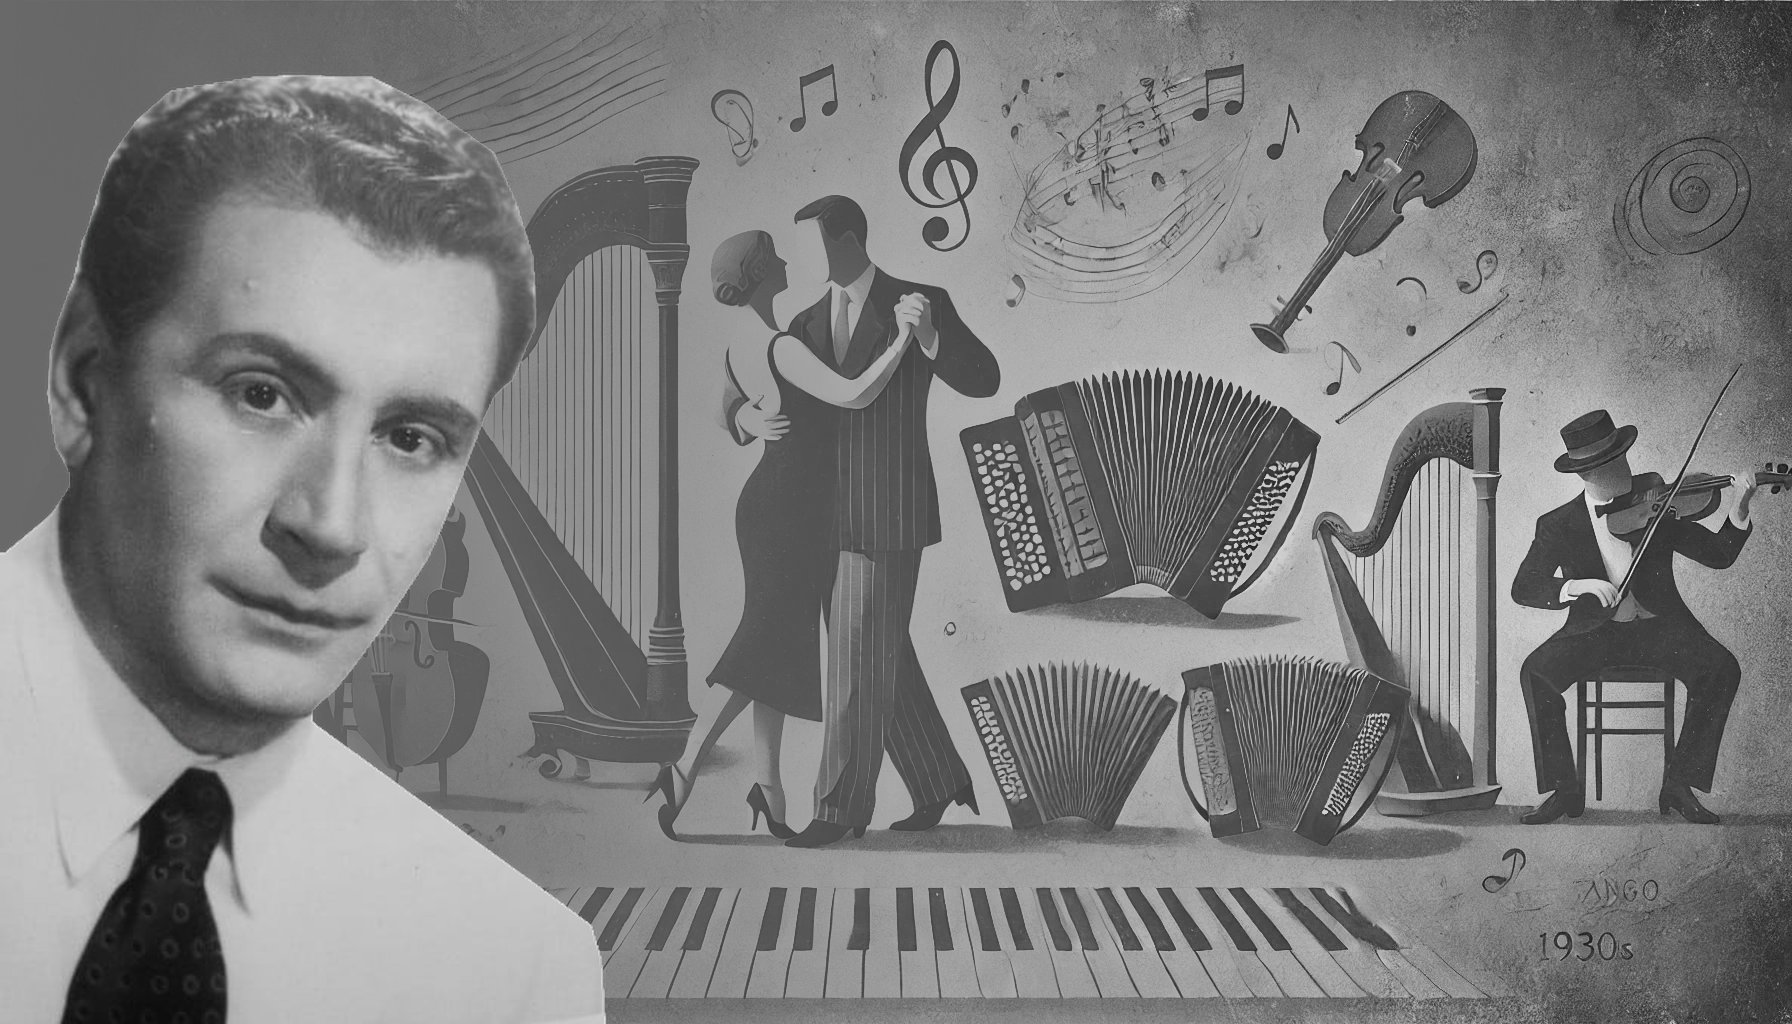
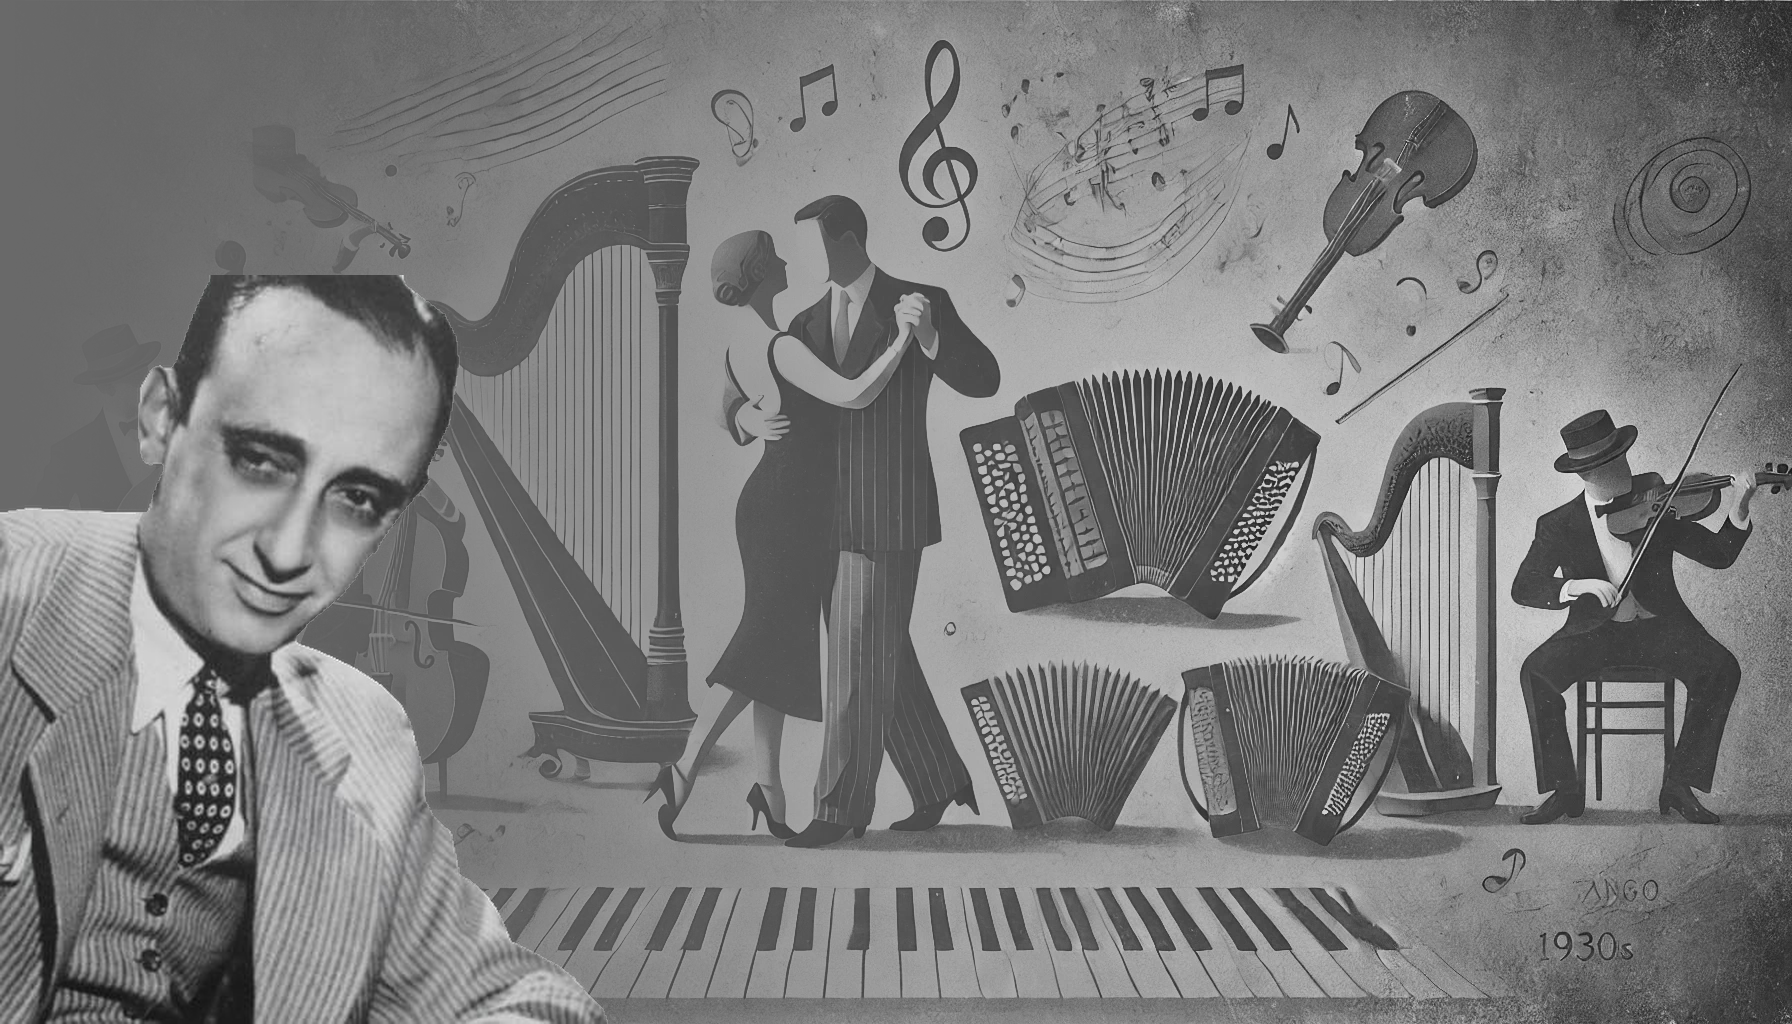
novedades

Changed region(s): [[0.0, 0.0625, 0.3438, 1.0]]

diff --git a/tangotags.py b/tangotags.py
@@ -59,7 +59,8 @@ output_folder = os.path.join(project_root, "output")
 
 image_folder = os.path.join(project_root, "images")
 background_image_path = os.path.join(image_folder, "background_tango.png")
-orchestra_path = os.path.join(image_folder, "alfredo de angelis.png")
+
+background_image_path = join(image_folder, "background_tango.png")
 
 
 
@@ -376,8 +377,6 @@ class PresentationApp:
 
 
         self.merged_image_folder = image_folder
-        self.background_image_path = join(image_folder, "background_tango.png")
-        self.orchestra_path = join(image_folder, "alfredo de angelis.png")
         self.m3u_file_path = None
         self.audio_files = []
         # self.audio_tags = []
@@ -502,7 +501,6 @@ class PresentationApp:
         #                          "tgdj", "data", "self_result.csv")
         # self.result = pd.read_csv(load_path)
 
-
     def canciones_tanda(self, tanda, tags):
         # Check if the result has at least 'tanda' rows
         if len(self.result) < tanda:
@@ -526,55 +524,6 @@ class PresentationApp:
             list_of_values.append(selected_values)
 
         return list_of_values
-
-    def apply_gradient_overlay(self):
-        # Open the original image
-        base = PilImage.open(self.background_image_path).convert("RGBA")
-
-        orchestra = PilImage.open(self.orchestra_path).convert("RGBA")
-
-        maximum_in_width = 0.35 * base.width
-        maximum_in_height = base.height
-
-        resize_factor = maximum_in_height / orchestra.height
-
-        if (resize_factor * orchestra.width) > maximum_in_width:
-            resize_factor = maximum_in_width / orchestra.width
-
-        new_width = int(orchestra.width * resize_factor)
-        new_height = int(orchestra.height * resize_factor)
-
-        # Resize the orchestra image
-        orchestra = orchestra.resize((new_width, new_height), PilImage.Resampling.LANCZOS)
-
-        # Create a gradient overlay
-        gradient = PilImage.new('L', (base.width, base.height))
-        for x in range(base.width):
-            # Gradient from opaque dark gray (on the left) to fully transparent (on the right)
-            gradient_value = int(
-                255 * (1 - x / base.width))  # Fully opaque on the left to fully transparent on the right
-            for y in range(base.height):
-                gradient.putpixel((x, y), gradient_value)
-
-        # Convert gradient to RGBA
-        gradient_rgba = PilImage.new('RGBA', base.size)
-        for y in range(base.height):
-            for x in range(base.width):
-                gradient_rgba.putpixel((x, y), (
-                105, 105, 105, gradient.getpixel((x, y))))  # Dark gray with varying transparency
-
-        # Apply the gradient to the base image
-        combined = PilImage.alpha_composite(base, gradient_rgba)
-
-        # Paste the resized orchestra image onto the combined image
-        position = (0, combined.height - orchestra.height)  # Centering
-        combined.paste(orchestra, position, orchestra)  # The third argument is the mask to maintain transparency
-
-        # Save the gradient and the combined image
-        # gradient_rgba.save(self.path_gradiente, "PNG")
-        self.merged_image_path = join(image_folder, "merged_background.png")
-
-        combined.save(self.merged_image_path, "PNG")
 
     def open_m3u_file(self):
         # Temporarily make the window non-topmost to allow file dialog interaction
@@ -708,7 +657,7 @@ class PresentationApp:
         tk.Label(pref_window, text="Background Image:").grid(row=1, column=0, padx=10, pady=10, sticky="w")
         background_entry = tk.Entry(pref_window, width=70)
         background_entry.grid(row=1, column=1, padx=10, pady=10)
-        background_entry.insert(0, self.background_image_path)
+        background_entry.insert(0, background_image_path)
 
         tk.Label(pref_window, text="M3U Start Path:").grid(row=2, column=0, padx=10, pady=10, sticky="w")
         m3u_start_path_entry = tk.Entry(pref_window, width=70)
@@ -717,7 +666,7 @@ class PresentationApp:
 
         def save_preferences():
             output_folder = output_path_entry.get()
-            self.background_image_path = background_entry.get()
+            background_image_path = background_entry.get()
             m3u_start_path = m3u_start_path_entry.get()
             messagebox.showinfo("Preferences", "Preferences saved!")
             pref_window.destroy()
@@ -726,7 +675,7 @@ class PresentationApp:
         save_button.grid(row=3, column=0, columnspan=2, pady=20)
 
     def update_background_thumbnail(self):
-        image = PilImage.open(self.background_image_path)
+        image = PilImage.open(background_image_path)
         image.thumbnail((100, 100))
         self.thumbnail_image = ImageTk.PhotoImage(image)
 
@@ -739,14 +688,76 @@ class PresentationApp:
 
     def select_background_image(self):
         new_image_path = filedialog.askopenfilename(
-            initialdir=os.path.dirname(self.background_image_path),
+            initialdir=os.path.dirname(background_image_path),
             filetypes=[("Image files", "*.jpg;*.jpeg;*.png;*.webp;*.bmp"), ("All files", "*.*")]
         )
         if new_image_path:
-            self.background_image_path = new_image_path
+            background_image_path = new_image_path
             self.update_background_thumbnail()
 
+    def apply_gradient_overlay(self):
+        # Open the original image
+        base = PilImage.open(background_image_path).convert("RGBA")
+
+        orchestra = PilImage.open(self.orchestra_path).convert("RGBA")
+
+        maximum_in_width = 0.35 * base.width
+        maximum_in_height = base.height
+
+        resize_factor = maximum_in_height / orchestra.height
+
+        if (resize_factor * orchestra.width) > maximum_in_width:
+            resize_factor = maximum_in_width / orchestra.width
+
+        new_width = int(orchestra.width * resize_factor)
+        new_height = int(orchestra.height * resize_factor)
+
+        # Resize the orchestra image
+        orchestra = orchestra.resize((new_width, new_height), PilImage.Resampling.LANCZOS)
+
+        # Create a gradient overlay
+        gradient = PilImage.new('L', (base.width, base.height))
+        for x in range(base.width):
+            # Gradient from opaque dark gray (on the left) to fully transparent (on the right)
+            gradient_value = int(
+                255 * (1 - x / base.width))  # Fully opaque on the left to fully transparent on the right
+            for y in range(base.height):
+                gradient.putpixel((x, y), gradient_value)
+
+        # Convert gradient to RGBA
+        gradient_rgba = PilImage.new('RGBA', base.size)
+        for y in range(base.height):
+            for x in range(base.width):
+                gradient_rgba.putpixel((x, y), (
+                105, 105, 105, gradient.getpixel((x, y))))  # Dark gray with varying transparency
+
+        # Apply the gradient to the base image
+        combined = PilImage.alpha_composite(base, gradient_rgba)
+
+        # Paste the resized orchestra image onto the combined image
+        position = (0, combined.height - orchestra.height)  # Centering
+        combined.paste(orchestra, position, orchestra)  # The third argument is the mask to maintain transparency
+
+        # Save the gradient and the combined image
+        # gradient_rgba.save(self.path_gradiente, "PNG")
+        self.merged_image_path = join(image_folder, "merged_background.png")
+
+        combined.save(self.merged_image_path, "PNG")
+
     def create_slide_for_tanda(self, prs, tanda_number):
+
+        # NAME OF THE ORCHESTRA
+        orchestra_value = self.result.iloc[tanda_number - 1]['orchestra_value']
+        orchestra_value_min = unidecode(orchestra_value).lower()
+        self.tanda_gender = self.result.iloc[tanda_number - 1]['unique_value']
+        if 'tango' not in self.tanda_gender:
+            self.merged_image_path = join(self.merged_image_folder, "background_cortina.png")
+        else:
+            # Create a merged image with gradient overlay
+            self.path_gradiente = join(self.merged_image_folder, "gradiente_background.png")
+            self.orchestra_path = os.path.join(image_folder, f'{orchestra_value_min}.png')
+            self.apply_gradient_overlay()
+
 
         # Add a slide with a title and content layout
         slide_layout = prs.slide_layouts[5]  # Use a blank layout
@@ -755,32 +766,26 @@ class PresentationApp:
         # Set the merged background image with gradient
         slide.shapes.add_picture(self.merged_image_path, 0, 0, width=prs.slide_width, height=prs.slide_height)
 
-        title_box = slide.shapes.add_textbox(Inches(5.5), Inches(1), Inches(13), Inches(1.5))
-        title_frame = title_box.text_frame
+        if 'tango' not in self.tanda_gender:
 
-        # First paragraph, first run: "title" in bold
-        title_paragraph1 = title_frame.add_paragraph()
-        title_paragraph1.level = 0  # Indicate bullet level (0 is the first level)
-        run_orquesta = title_paragraph1.add_run()
-        orchestra_value = self.result.iloc[tanda_number - 1]['orchestra_value']
-        subtitle = ''
-        if not orchestra_value.startswith("Orquesta"):
-            initial_text = 'Orquesta de '
-        else:
-            initial_text =''
-        run_orquesta.text = f'{initial_text}{orchestra_value}'
-        run_orquesta.font.size = Pt(60)
-        run_orquesta.font.color.rgb = RGBColor(255, 255, 255)  # White color
-        run_orquesta.font.bold = True
+            lista = self.canciones_tanda(tanda_number, ['title', 'ano', 'composer'])
 
+            title, year, composer = self.canciones_tanda(tanda_number, ['title', 'ano', 'composer'])[0]
 
-        self.orchestra_path = join(image_folder, "alfredo de angelis.png")
+            title_box = slide.shapes.add_textbox(Inches(2), Inches(2), Inches(2), Inches(2))
+            title_frame = title_box.text_frame
 
-        counter = 0
-        for rows in self.canciones_tanda(tanda_number, ['title', 'ano', 'composer']):
-            title, year, composer = rows
+            # First paragraph, first run: "title" in bold
+            title_paragraph1 = title_frame.add_paragraph()
+            title_paragraph1.level = 0  # Indicate bullet level (0 is the first level)
+            run_orquesta = title_paragraph1.add_run()
 
-            text_box = slide.shapes.add_textbox(Inches(5.5), Inches(2 + counter * 1), Inches(13), Inches(1.5))
+            run_orquesta.text = f'{orchestra_value}'
+            run_orquesta.font.size = Pt(100)
+            run_orquesta.font.color.rgb = RGBColor(255, 255, 255)  # White color
+            run_orquesta.font.bold = True
+
+            text_box = slide.shapes.add_textbox(Inches(4), Inches(8), Inches(1), Inches(1))
             text_frame = text_box.text_frame
 
             # First paragraph, first run: "title" in bold
@@ -788,7 +793,7 @@ class PresentationApp:
             paragraph1.level = 0  # Indicate bullet level (0 is the first level)
             run_titulo = paragraph1.add_run()
             run_titulo.text = title
-            run_titulo.font.size = Pt(35)
+            run_titulo.font.size = Pt(50)
             run_titulo.font.color.rgb = RGBColor(255, 255, 255)  # White color
             run_titulo.font.bold = True
 
@@ -800,20 +805,69 @@ class PresentationApp:
             # First paragraph, second run: "year" in parentheses
             run_fecha = paragraph1.add_run()
             run_fecha.text = f'   ({year})'
-            run_fecha.font.size = Pt(30)
+            run_fecha.font.size = Pt(50)
             run_fecha.font.color.rgb = RGBColor(255, 255, 255)  # White color
 
-            # Second paragraph: "composer" in italics
-            paragraph2 = text_frame.add_paragraph()
-            run_compositor = paragraph2.add_run()
-            run_compositor.text = composer
-            run_compositor.font.size = Pt(18)
-            run_compositor.font.color.rgb = RGBColor(255, 255, 255)  # White color
-            run_compositor.font.italic = True
+        else:
 
-            counter += 1
+
+            title_box = slide.shapes.add_textbox(Inches(5.5), Inches(1), Inches(13), Inches(1.5))
+            title_frame = title_box.text_frame
+
+            # First paragraph, first run: "title" in bold
+            title_paragraph1 = title_frame.add_paragraph()
+            title_paragraph1.level = 0  # Indicate bullet level (0 is the first level)
+            run_orquesta = title_paragraph1.add_run()
+
+            subtitle = ''
+            if not orchestra_value.startswith("Orquesta"):
+                initial_text = 'Orquesta de '
+            else:
+                initial_text =''
+            run_orquesta.text = f'{initial_text}{orchestra_value}'
+            run_orquesta.font.size = Pt(60)
+            run_orquesta.font.color.rgb = RGBColor(255, 255, 255)  # White color
+            run_orquesta.font.bold = True
+
+            counter = 0
+            for rows in self.canciones_tanda(tanda_number, ['title', 'ano', 'composer']):
+                title, year, composer = rows
+
+                text_box = slide.shapes.add_textbox(Inches(5.5), Inches(2 + counter * 1), Inches(13), Inches(1.5))
+                text_frame = text_box.text_frame
+
+                # First paragraph, first run: "title" in bold
+                paragraph1 = text_frame.add_paragraph()
+                paragraph1.level = 0  # Indicate bullet level (0 is the first level)
+                run_titulo = paragraph1.add_run()
+                run_titulo.text = title
+                run_titulo.font.size = Pt(35)
+                run_titulo.font.color.rgb = RGBColor(255, 255, 255)  # White color
+                run_titulo.font.bold = True
+
+                # Add bullet
+                paragraph1.space_before = Pt(12)
+                paragraph1.space_after = Pt(12)
+                paragraph1.font.shadow = True
+
+                # First paragraph, second run: "year" in parentheses
+                run_fecha = paragraph1.add_run()
+                run_fecha.text = f'   ({year})'
+                run_fecha.font.size = Pt(30)
+                run_fecha.font.color.rgb = RGBColor(255, 255, 255)  # White color
+
+                # Second paragraph: "composer" in italics
+                paragraph2 = text_frame.add_paragraph()
+                run_compositor = paragraph2.add_run()
+                run_compositor.text = composer
+                run_compositor.font.size = Pt(18)
+                run_compositor.font.color.rgb = RGBColor(255, 255, 255)  # White color
+                run_compositor.font.italic = True
+
+                counter += 1
 
     def create_presentation(self):
+
         nombre_milonga = self.nombre_milonga_entry.get()
         fecha = self.fecha_entry.get()
 
@@ -824,10 +878,6 @@ class PresentationApp:
         if not self.m3u_file_path or not self.audio_files:
             messagebox.showwarning("Input Error", "Please load an M3U file.")
             return
-
-        # Create a merged image with gradient overlay
-        self.path_gradiente = join(self.merged_image_folder, "gradiente_background.png")
-        self.apply_gradient_overlay()
 
         # Path to save the presentation
         output_file = join(output_folder, "presentation.pptx")
@@ -840,7 +890,7 @@ class PresentationApp:
         prs.slide_height = Inches(8)
 
         # Add slides for different tanda numbers
-        for tanda_number in range(1, 4):  # Adjust the range as needed
+        for tanda_number in range(1, self.result.shape[0]+1):  # Adjust the range as needed
             self.create_slide_for_tanda(prs, tanda_number)
 
         # Save the presentation
